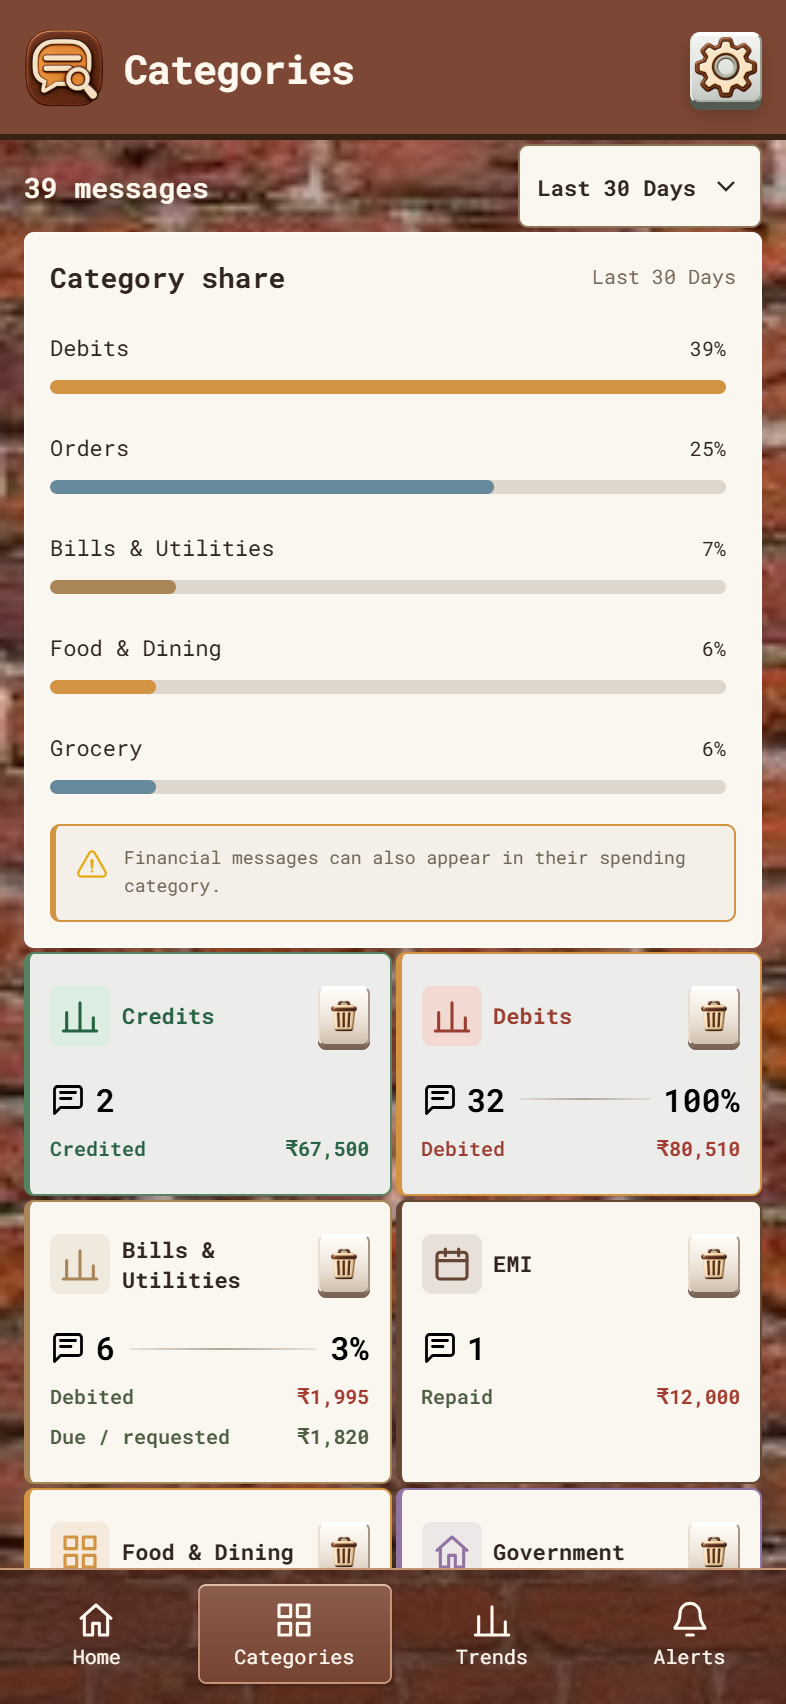
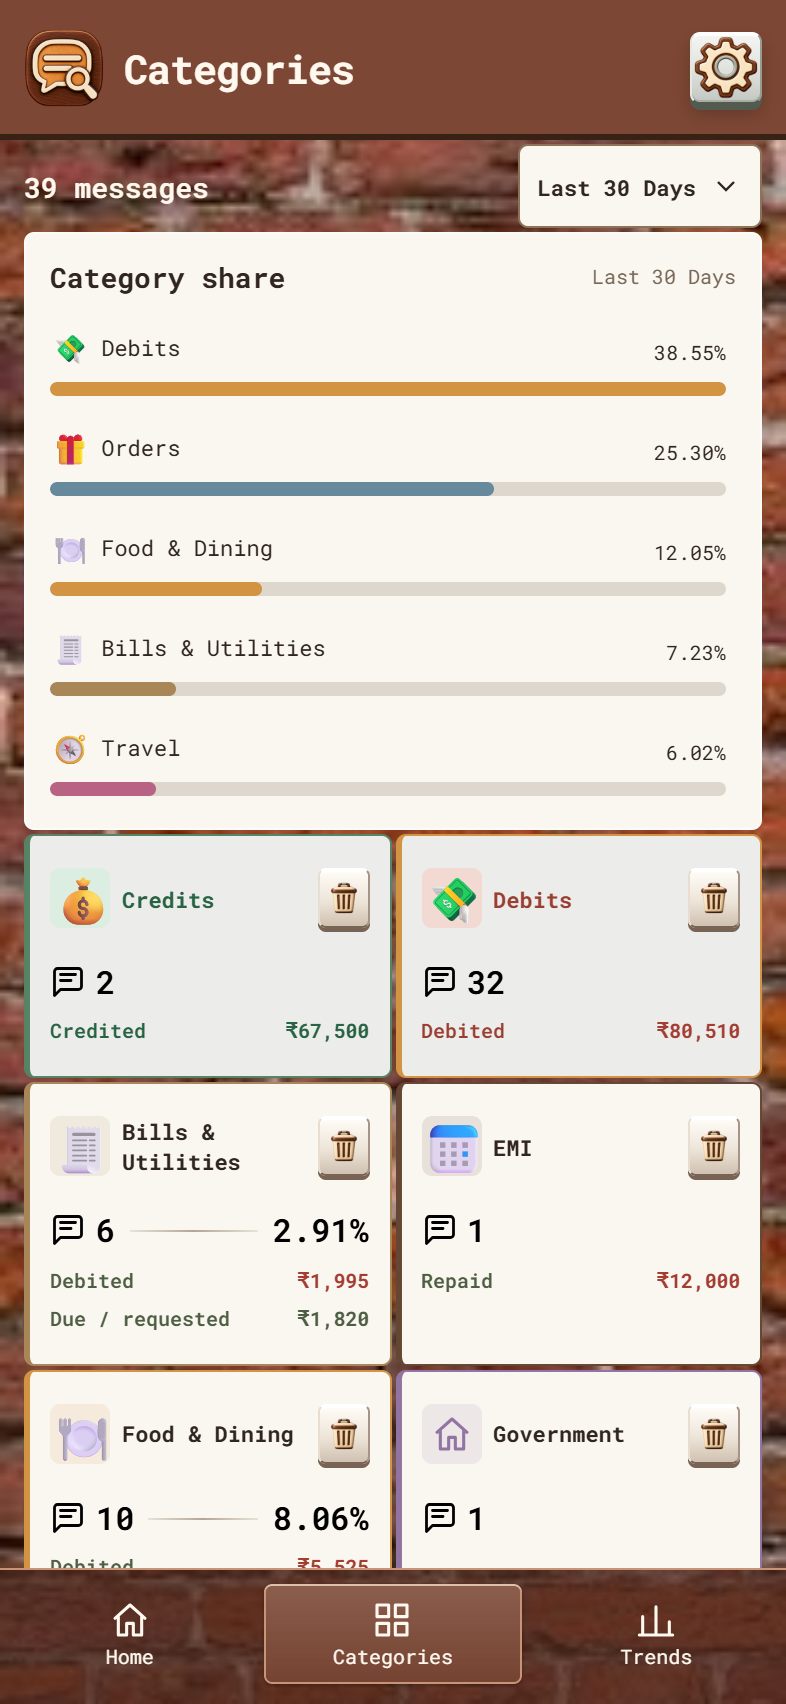
Refresh README screenshots for v0.1.172
- Recapture all eight screens from the current source with synthetic SMS, the fixed 27 Oct 2026 clock and a 50,000 sample budget.
- Trends now shows the Expense trend markers and the Spend by source donut; Alerts shows the receipt bill icon.
- Update screenshot captions, provenance notes and the capture script's sample budget.

diff --git a/docs/SCREENSHOTS.md b/docs/SCREENSHOTS.md
@@ -1,6 +1,6 @@
 # Screenshot provenance
 
-The screenshots in `screenshots/` show the actual v0.1.127 HTML/CSS interface rendered at a 393 × 852 CSS-pixel viewport with 2× pixel density. They use synthetic SMS fixtures and a fixed sample clock, not a real inbox or personal training export. The reproducible capture script is `scripts/capture-screenshots.cjs`.
+The screenshots in `screenshots/` show the actual v0.1.172 HTML/CSS interface rendered at a 393 × 852 CSS-pixel viewport with 2× pixel density. They use synthetic SMS fixtures, a ₹50,000 sample budget and a fixed sample clock (27 Oct 2026), not a real inbox or personal training export. The reproducible capture script is `scripts/capture-screenshots.cjs`.
 
 The Wood, Stone and Brick themes are existing app assets. The native Android status/navigation bars and system permission dialogs are outside these WebView screenshots. Browser-only Settings correctly shows SMS access as not enabled.
 
@@ -10,7 +10,7 @@ The Wood, Stone and Brick themes are existing app assets. The native Android sta
 | top-payee.png | Aggregated payees, period toggle and category buttons | Stone |
 | latest-payments.png | Individual outgoing payments; period toggle hidden | Stone |
 | categories.png | Ranked category share bars and debit/credit totals | Brick |
-| trends.png | Interactive category and weekday trends | Wood |
-| alerts.png | Alerts and upcoming payment notices | Brick |
+| trends.png | Expense trend markers and Spend by source donut (Gross/Net) | Wood |
+| alerts.png | Suspicious-message flag, upcoming bills and subscriptions | Brick |
 | settings.png | Preferences, theme selection and training entry | Stone |
 | learning-centre.png | Training progress and compact management actions | Wood |

diff --git a/README.md b/README.md
@@ -12,7 +12,7 @@ SMSAnalyzer reads permitted inbox messages on the device, identifies payments an
 
 ## Screenshots
 
-These are actual v0.1.127 interface renders with **synthetic sample SMS**, not a real inbox. The interface has not changed in ways that affect these views since then. Native Android system bars are not included. Select an image to see it at full resolution.
+These are actual v0.1.172 interface renders with **synthetic sample SMS** and a ₹50,000 sample budget, not a real inbox. Native Android system bars are not included. Select an image to see it at full resolution.
 
 | Home overview · Wood | Top payee · Stone |
 | --- | --- |
@@ -24,7 +24,7 @@ These are actual v0.1.127 interface renders with **synthetic sample SMS**, not a
 
 | Trends · Wood | Alerts · Brick |
 | --- | --- |
-| <img src="docs/screenshots/trends.png" alt="Spending trends and weekday averages" width="300"> | <img src="docs/screenshots/alerts.png" alt="Bill and message alerts" width="300"> |
+| <img src="docs/screenshots/trends.png" alt="Expense trend with first-spend, budget-reached and current markers, and the Spend by source donut with Gross and Net tabs" width="300"> | <img src="docs/screenshots/alerts.png" alt="Suspicious-message flag, upcoming bills with the receipt icon and subscription notices" width="300"> |
 
 | Settings · Stone | Learning Centre · Wood |
 | --- | --- |
